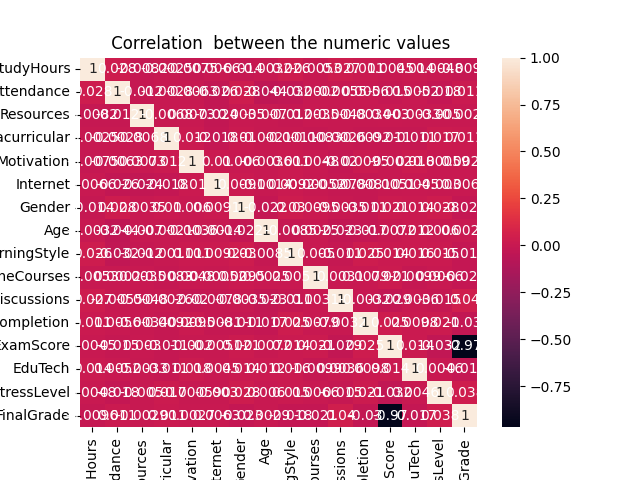
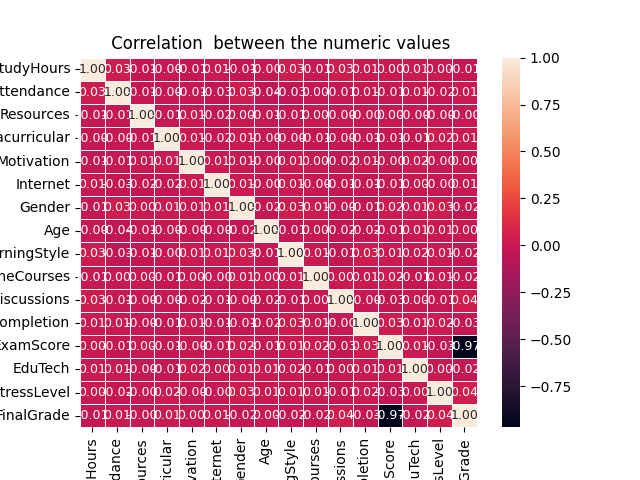
Second commit

Changed region(s): [[0.125, 0.125, 0.75, 0.875]]

diff --git a/analysis.py b/analysis.py
@@ -73,7 +73,12 @@ plt.title(" Counting Of Final grade")
 plt.savefig("images/finalgrade_countplt.png")
 plt.show()
 
-sns.heatmap(df.corr(numeric_only=True), annot=True)
+sns.heatmap(df.corr(numeric_only=True),
+             annot=True,
+             fmt=".2f", 
+             cmap="rocket", 
+             linewidths=0.5,     
+             annot_kws={"size": 9})
 plt.title(" Correlation  between the numeric values")
 plt.savefig("images/correlation_hist.png")
 plt.show()
